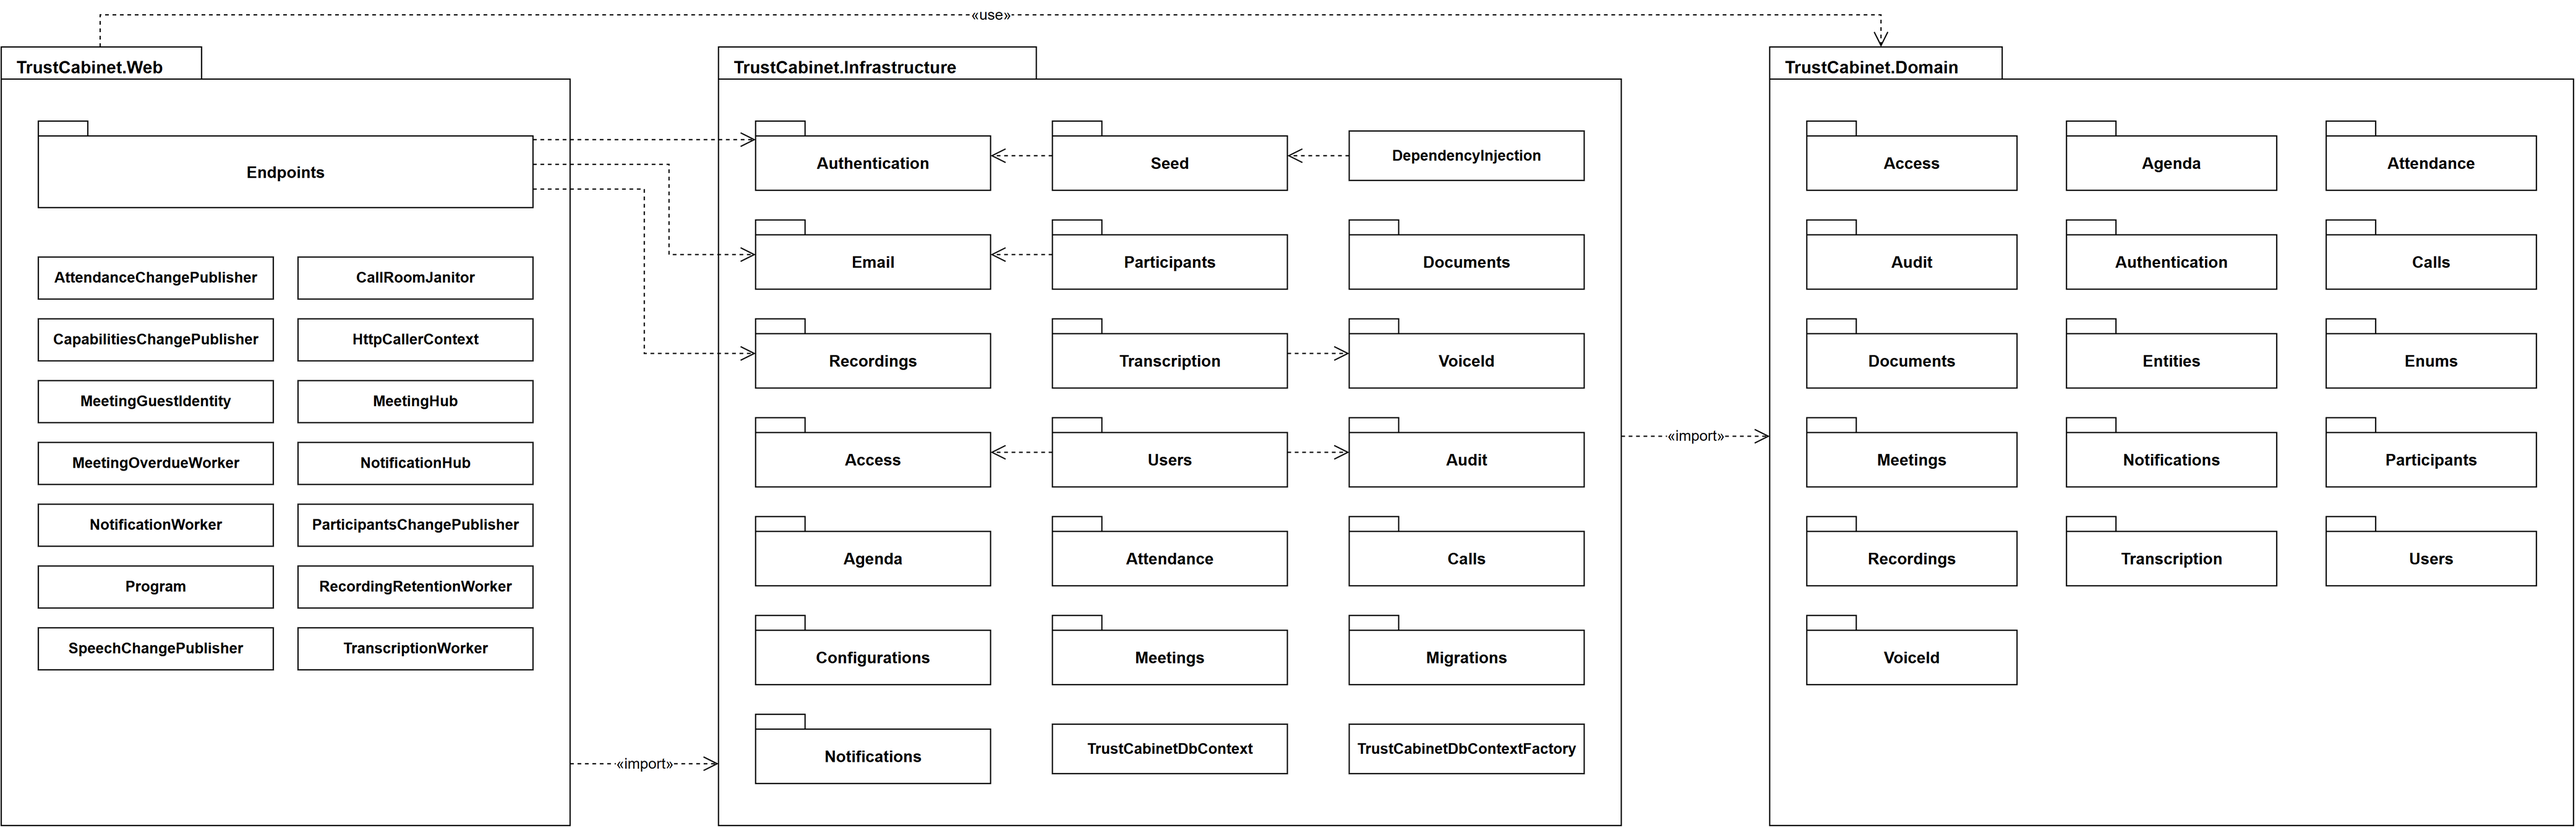
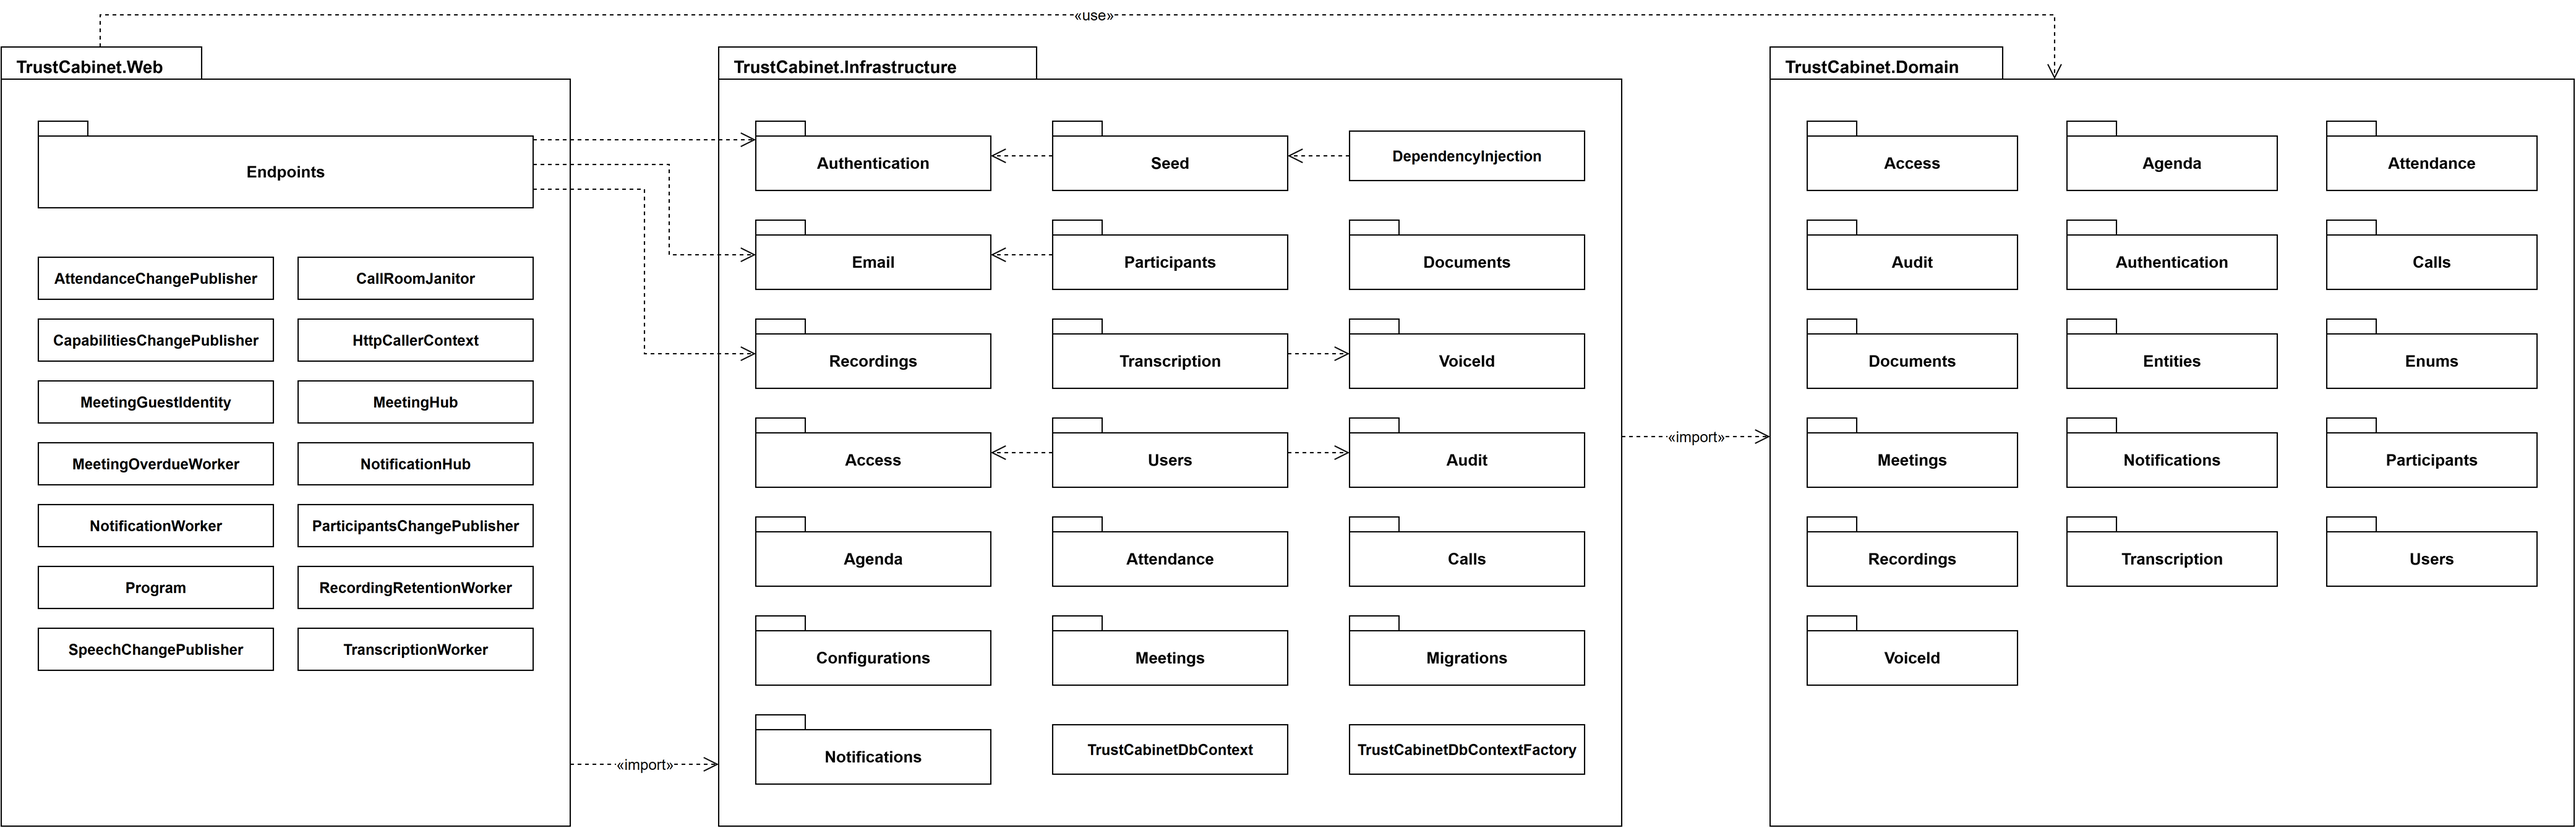
Verify package diagram

diff --git a/docs/15-package-diagram/README.md b/docs/15-package-diagram/README.md
@@ -24,6 +24,9 @@ Mỗi góc nhìn là một cặp file cùng tên: `.drawio` là source editable,
   Infrastructure); `«use» HTTP · SignalR` = `api/` gọi `/api` và `/hubs` của backend.
 - Mũi tên không nhãn là phụ thuộc giữa các package trong cùng một project/thư mục.
 - Mũi tên gắn vào khung một package bao gồm mọi package con bên trong.
+- Package vẽ ngoài package chứa nó thì ghi tên đầy đủ `chứa::tên` (ví dụ `backend::TrustCabinet.Web`
+  trên trang Frontend).
+- Mũi tên kết thúc ở thân package, không cắm vào tab.
 
 ## Những gì cố ý không vẽ
 
@@ -37,7 +40,8 @@ Mỗi góc nhìn là một cặp file cùng tên: `.drawio` là source editable,
 - **Trang Backend** chỉ vẽ phụ thuộc giữa các package trong Infrastructure và từ `Endpoints` sang
   Infrastructure; từng package Infrastructure → Domain được gộp vào mũi tên `«import»` giữa hai
   khung. Phụ thuộc giữa các class ở namespace gốc của Web (hub, worker, publisher) với các project
-  khác cũng gộp vào mũi tên giữa khung.
+  khác cũng gộp vào mũi tên giữa khung. `MeetingHub`, `NotificationHub` và `NotificationWorker`
+  dùng `Endpoints`; phụ thuộc này cũng không vẽ.
 - **Trang Frontend** không vẽ phụ thuộc giữa các feature với nhau (`meetings`, `calls` dùng gần
   như mọi feature khác; mọi feature dùng `auth`). `main.tsx` và `styles/` (CSS) không có trên hình.
 - Thư viện ngoài (NuGet, npm) không có trên hình; danh sách ở các `.csproj` và `frontend/package.json`.
